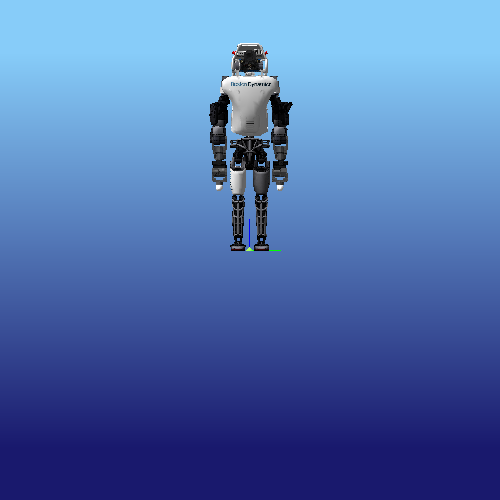
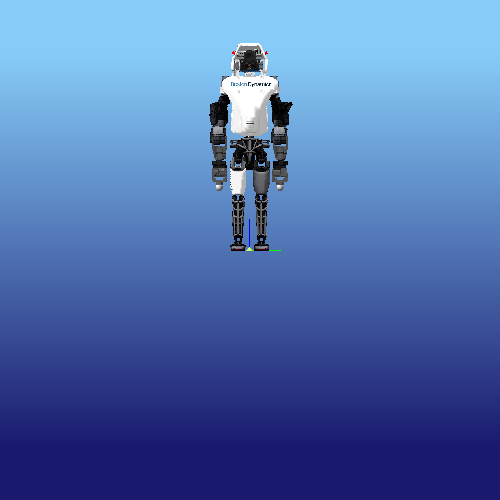
[core] Add serialization of convex geometries. (#526)
* [core] Add serialization of convex geometries.
* [python/log] Fix loading of logged pinocchio model.
* [python/viewer] Fix default color handling for panda3d.
* [python/viewer] Fix loading of Convex geometries.
* [misc] Fix gym_jiminy_zoo deps.

Changed region(s): [[0.42, 0.09, 0.57, 0.39], [0.51, 0.42, 0.54, 0.48]]

diff --git a/python/jiminy_py/src/jiminy_py/viewer/panda3d/panda3d_visualizer.py b/python/jiminy_py/src/jiminy_py/viewer/panda3d/panda3d_visualizer.py
@@ -310,16 +310,15 @@ class Panda3dApp(panda3d_viewer.viewer_app.ViewerApp):
 
         # Create physics-based shader and adapt lighting accordingly.
         # It slows down the rendering by about 30% on discrete NVIDIA GPU.
-        pbr_vert = simplepbr._load_shader_str(
-            'simplepbr.vert', {'ENABLE_SHADOWS': ''})
-        pbr_frag = simplepbr._load_shader_str(
-            'simplepbr.frag', {'ENABLE_SHADOWS': ''})
+        shader_options = {'ENABLE_SHADOWS': ''}
+        pbr_vert = simplepbr._load_shader_str('simplepbr.vert', shader_options)
+        pbr_frag = simplepbr._load_shader_str('simplepbr.frag', shader_options)
         pbrshader = Shader.make(
             Shader.SL_GLSL, vertex=pbr_vert, fragment=pbr_frag)
         self.render.set_attrib(ShaderAttrib.make(pbrshader))
-        self._lights = [self._make_light_ambient((0.5, 0.5, 0.5)),
-                        self._make_light_direct(
-                            1, (1.0, 1.0, 1.0), pos=(8.0, -8.0, 10.0))]
+        self._lights = [
+            self._make_light_ambient((0.5, 0.5, 0.5)),
+            self._make_light_direct(1, (1.0, 1.0, 1.0), pos=(8.0, -8.0, 10.0))]
 
         # Define default camera pos
         self._camera_defaults = CAMERA_POS_DEFAULT
@@ -876,11 +875,12 @@ class Panda3dApp(panda3d_viewer.viewer_app.ViewerApp):
                     name: str,
                     node: NodePath,
                     frame: Optional[FrameType] = None) -> None:
-        """Patched to make sure node's name is valid.
+        """Patched to make sure node's name is valid and set the color scale.
         """
         assert re.match(r'^[A-Za-z0-9_]+$', name), (
             "Node's name is restricted to case-insensitive ASCII alphanumeric "
             "string (including underscores).")
+        node.set_color_scale((1.2, 1.2, 1.2, 1.0))
         super().append_node(root_path, name, node, frame)
 
     def highlight_node(self, root_path: str, name: str, enable: bool) -> None:
@@ -1253,25 +1253,22 @@ class Panda3dApp(panda3d_viewer.viewer_app.ViewerApp):
                 node.clear_texture()
                 node.clear_material()
 
-            material = Material()
-            material.set_base_color((1.2, 1.2, 1.2, 1.0))
-
             if color is None:
                 node.clear_color()
             else:
                 node.set_color(Vec4(*color))
 
+                material = Material()
                 material.set_ambient(Vec4(*color))
                 material.set_diffuse(Vec4(*color))
                 material.set_specular(Vec3(1, 1, 1))
                 material.set_roughness(0.4)
+                node.set_material(material, 1)
 
                 if color[3] < 1:
                     node.set_transparency(TransparencyAttrib.M_alpha)
                 else:
                     node.set_transparency(TransparencyAttrib.M_none)
-
-            node.set_material(material, True)
 
             if texture_path:
                 texture = self.loader.load_texture(texture_path)
@@ -1456,7 +1453,7 @@ class Panda3dApp(panda3d_viewer.viewer_app.ViewerApp):
         for light in self._lights:
             if not light.node().is_ambient_light():
                 light.node().set_shadow_caster(enable)
-        self.render.set_depth_offset(-1 if enable else 0)
+        self.render.set_depth_offset(-2 if enable else 0)
         self._shadow_enabled = enable
 
 panda3d_viewer.viewer_app.ViewerApp = Panda3dApp  # noqa
@@ -1578,12 +1575,22 @@ class Panda3dVisualizer(BaseVisualizer):
         # Get node name
         node_name = self.getViewerNodeName(geometry_object, geometry_type)
 
+        # Extract geometry information
+        geom = geometry_object.geometry
+        mesh_path = geometry_object.meshPath
+        texture_path = ""
+        if geometry_object.overrideMaterial:
+            # Get material from URDF. The color is only used if no texture or
+            # if its value is not the default because meshColor is never unset.
+            if os.path.exists(geometry_object.meshTexturePath):
+                texture_path = geometry_object.meshTexturePath
+            if color is None and (not texture_path or any(
+                    geometry_object.meshColor != [0.9, 0.9, 0.9, 1.0])):
+                color = geometry_object.meshColor
+
         # Try to load mesh from path first, to take advantage of very effective
         # Panda3d model caching procedure.
         is_success = True
-        geom = geometry_object.geometry
-        color = geometry_object.meshColor
-        mesh_path = geometry_object.meshPath
         if os.path.exists(mesh_path):
             # append a mesh
             mesh_path = _sanitize_path(geometry_object.meshPath)
@@ -1591,8 +1598,8 @@ class Panda3dVisualizer(BaseVisualizer):
             self.viewer.append_mesh(*node_name, mesh_path, scale)
         else:
             # Each geometry must have at least a color or a texture
-            if color is None and not geometry_object.overrideMaterial:
-                color = np.array([0.5, 0.5, 0.5, 1.0])
+            if color is None and not texture_path:
+                color = np.array([0.75, 0.75, 0.75, 1.0])
 
             # Append a primitive geometry
             if isinstance(geom, hppfcl.Capsule):
@@ -1611,18 +1618,26 @@ class Panda3dVisualizer(BaseVisualizer):
             elif isinstance(geom, (hppfcl.Convex, hppfcl.BVHModelBase)):
                 # Extract vertices and faces from geometry
                 if isinstance(geom, hppfcl.Convex):
-                    vertices = [geom.points(i) for i in range(geom.num_points)]
-                    faces = [np.array(geom.polygons(i))
-                             for i in range(geom.num_polygons)]
+                    num_vertices = geom.num_points
+                    get_vertices = geom.points
+                    num_faces = geom.num_polygons
+                    get_faces = geom.polygons
                 else:
-                    vertices = np.empty((geom.num_vertices, 3))
-                    for i in range(geom.num_vertices):
-                        vertices[i] = geom.vertices(i)
-                    faces = np.empty((geom.num_tris, 3), dtype=np.int32)
-                    for i in range(geom.num_tris):
-                        tri = geom.tri_indices(i)
-                        for j in range(3):
-                            faces[i, j] = tri[j]
+                    num_vertices = geom.num_vertices
+                    get_vertices = geom.vertices
+                    num_faces, get_faces = geom.num_tris, geom.tri_indices
+                vertices = np.empty((num_vertices, 3))
+                for i in range(num_vertices):
+                    vertices[i] = get_vertices(i)
+                faces = np.empty((num_faces, 3), dtype=np.int32)
+                for i in range(num_faces):
+                    tri = get_faces(i)
+                    for j in range(3):
+                        faces[i, j] = tri[j]
+
+                # Return immediately if there is nothing to load
+                if num_vertices == 0:
+                    return
 
                 # Create primitive triangle geometry.
                 # Note that the redundant vertices are added for efficiency
@@ -1668,13 +1683,6 @@ class Panda3dVisualizer(BaseVisualizer):
             return
 
         # Set material
-        texture_path = ""
-        if geometry_object.overrideMaterial:
-            # Set material from URDF
-            if os.path.exists(geometry_object.meshTexturePath):
-                texture_path = geometry_object.meshTexturePath
-            if color is None:
-                color = geometry_object.meshColor
         self.viewer.set_material(*node_name, color, texture_path)
 
     def loadViewerModel(self,

diff --git a/core/src/io/Serialization.cc b/core/src/io/Serialization.cc
@@ -1,6 +1,8 @@
-
 #include "jiminy/core/io/Serialization.h"
 
+#ifdef _MSC_VER  /* Microsoft Visual C++ -- warning level 3 */
+#pragma warning(disable : 4267)  /* conversion from 'size_t' to 'unsigned int' */
+#endif
 
 BOOST_CLASS_EXPORT_IMPLEMENT(hpp::fcl::TriangleP)
 BOOST_CLASS_EXPORT_IMPLEMENT(hpp::fcl::Sphere)
@@ -10,7 +12,7 @@ BOOST_CLASS_EXPORT_IMPLEMENT(hpp::fcl::Cone)
 BOOST_CLASS_EXPORT_IMPLEMENT(hpp::fcl::Cylinder)
 BOOST_CLASS_EXPORT_IMPLEMENT(hpp::fcl::Halfspace)
 BOOST_CLASS_EXPORT_IMPLEMENT(hpp::fcl::Plane)
-// BOOST_CLASS_EXPORT_IMPLEMENT(hpp::fcl::ConvexBase)  // Convex are not serializable for now
+BOOST_CLASS_EXPORT_IMPLEMENT(hpp::fcl::Convex<hpp::fcl::Triangle>)
 BOOST_CLASS_EXPORT_IMPLEMENT(hpp::fcl::BVHModel<hpp::fcl::AABB>)
 BOOST_CLASS_EXPORT_IMPLEMENT(hpp::fcl::BVHModel<hpp::fcl::OBB>)
 BOOST_CLASS_EXPORT_IMPLEMENT(hpp::fcl::BVHModel<hpp::fcl::RSS>)
@@ -21,12 +23,12 @@ BOOST_CLASS_EXPORT_IMPLEMENT(hpp::fcl::BVHModel<hpp::fcl::KDOP<18> >)
 BOOST_CLASS_EXPORT_IMPLEMENT(hpp::fcl::BVHModel<hpp::fcl::KDOP<24> >)
 
 // Explicit template instantiation for serialization
-#define EXPL_TPL_INST_SERIALIZE_IMPL(A, T) \
-    template void serialize(A &, T &, const unsigned int);
+#define EXPL_TPL_INST_SERIALIZE_IMPL(A, ...) \
+    template void serialize(A &, __VA_ARGS__ &, const unsigned int);
 
-#define EXPLICIT_TEMPLATE_INSTANTIATION_SERIALIZE(T) \
-    EXPL_TPL_INST_SERIALIZE_IMPL(boost::archive::binary_iarchive, T) \
-    EXPL_TPL_INST_SERIALIZE_IMPL(boost::archive::binary_oarchive, T)
+#define EXPLICIT_TEMPLATE_INSTANTIATION_SERIALIZE(...) \
+    EXPL_TPL_INST_SERIALIZE_IMPL(boost::archive::binary_iarchive, __VA_ARGS__) \
+    EXPL_TPL_INST_SERIALIZE_IMPL(boost::archive::binary_oarchive, __VA_ARGS__)
 
 namespace boost
 {

diff --git a/python/jiminy_py/src/jiminy_py/viewer/meshcat/meshcat_visualizer.py b/python/jiminy_py/src/jiminy_py/viewer/meshcat/meshcat_visualizer.py
@@ -173,18 +173,22 @@ class MeshcatVisualizer(BaseVisualizer):
         elif isinstance(geom, (hppfcl.Convex, hppfcl.BVHModelBase)):
             # Extract vertices and faces from geometry
             if isinstance(geom, hppfcl.Convex):
-                vertices = np.vstack([
-                    geom.points(i) for i in range(geom.num_points)])
-                faces = np.vstack([np.array(geom.polygons(i))
-                                   for i in range(geom.num_polygons)])
+                num_vertices = geom.num_points
+                get_vertices = geom.points
+                num_faces = geom.num_polygons
+                get_faces = geom.polygons
             else:
-                vertices = np.vstack([geom.vertices(i)
-                                      for i in range(geom.num_vertices)])
-                faces = np.empty((geom.num_tris, 3), dtype=int)
-                for i in range(geom.num_tris):
-                    tri = geom.tri_indices(i)
-                    for j in range(3):
-                        faces[i, j] = tri[j]
+                num_vertices = geom.num_vertices
+                get_vertices = geom.vertices
+                num_faces, get_faces = geom.num_tris, geom.tri_indices
+            vertices = np.empty((num_vertices, 3))
+            for i in range(num_vertices):
+                vertices[i] = get_vertices(i)
+            faces = np.empty((num_faces, 3), dtype=np.int32)
+            for i in range(num_faces):
+                tri = get_faces(i)
+                for j in range(3):
+                    faces[i, j] = tri[j]
 
             # Create primitive triangle geometry
             obj = TriangularMeshGeometry(vertices, faces)

diff --git a/core/include/jiminy/core/io/Serialization.h b/core/include/jiminy/core/io/Serialization.h
@@ -16,7 +16,7 @@ BOOST_CLASS_EXPORT_KEY(hpp::fcl::Cone)
 BOOST_CLASS_EXPORT_KEY(hpp::fcl::Cylinder)
 BOOST_CLASS_EXPORT_KEY(hpp::fcl::Halfspace)
 BOOST_CLASS_EXPORT_KEY(hpp::fcl::Plane)
-// BOOST_CLASS_EXPORT_KEY(hpp::fcl::ConvexBase)  // Convex are not serializable for now
+BOOST_CLASS_EXPORT_KEY(hpp::fcl::Convex<hpp::fcl::Triangle>)
 
 BOOST_CLASS_EXPORT_KEY(hpp::fcl::BVHModel<hpp::fcl::AABB>)
 BOOST_CLASS_EXPORT_KEY(hpp::fcl::BVHModel<hpp::fcl::OBB>)

diff --git a/python/jiminy_py/src/jiminy_py/log.py b/python/jiminy_py/src/jiminy_py/log.py
@@ -93,7 +93,7 @@ def read_log(fullpath: str,
             if ".pinocchio_model" in key:
                 model = pin.Model()
                 jiminy.load_from_binary(model, value)
-                return value
+                return model
             elif ".visual_model" in key or ".collision_model" in key:
                 geometry_model = pin.GeometryModel()
                 jiminy.load_from_binary(geometry_model, value)

diff --git a/python/gym_jiminy/envs/setup.py b/python/gym_jiminy/envs/setup.py
@@ -29,7 +29,7 @@ setup(
     packages=find_namespace_packages(),
     include_package_data=True,
     install_requires=[
-        f"gym_jiminy=={version}"
+        f"gym_jiminy[toolbox]=={version}"
     ],
     zip_safe=False
 )
